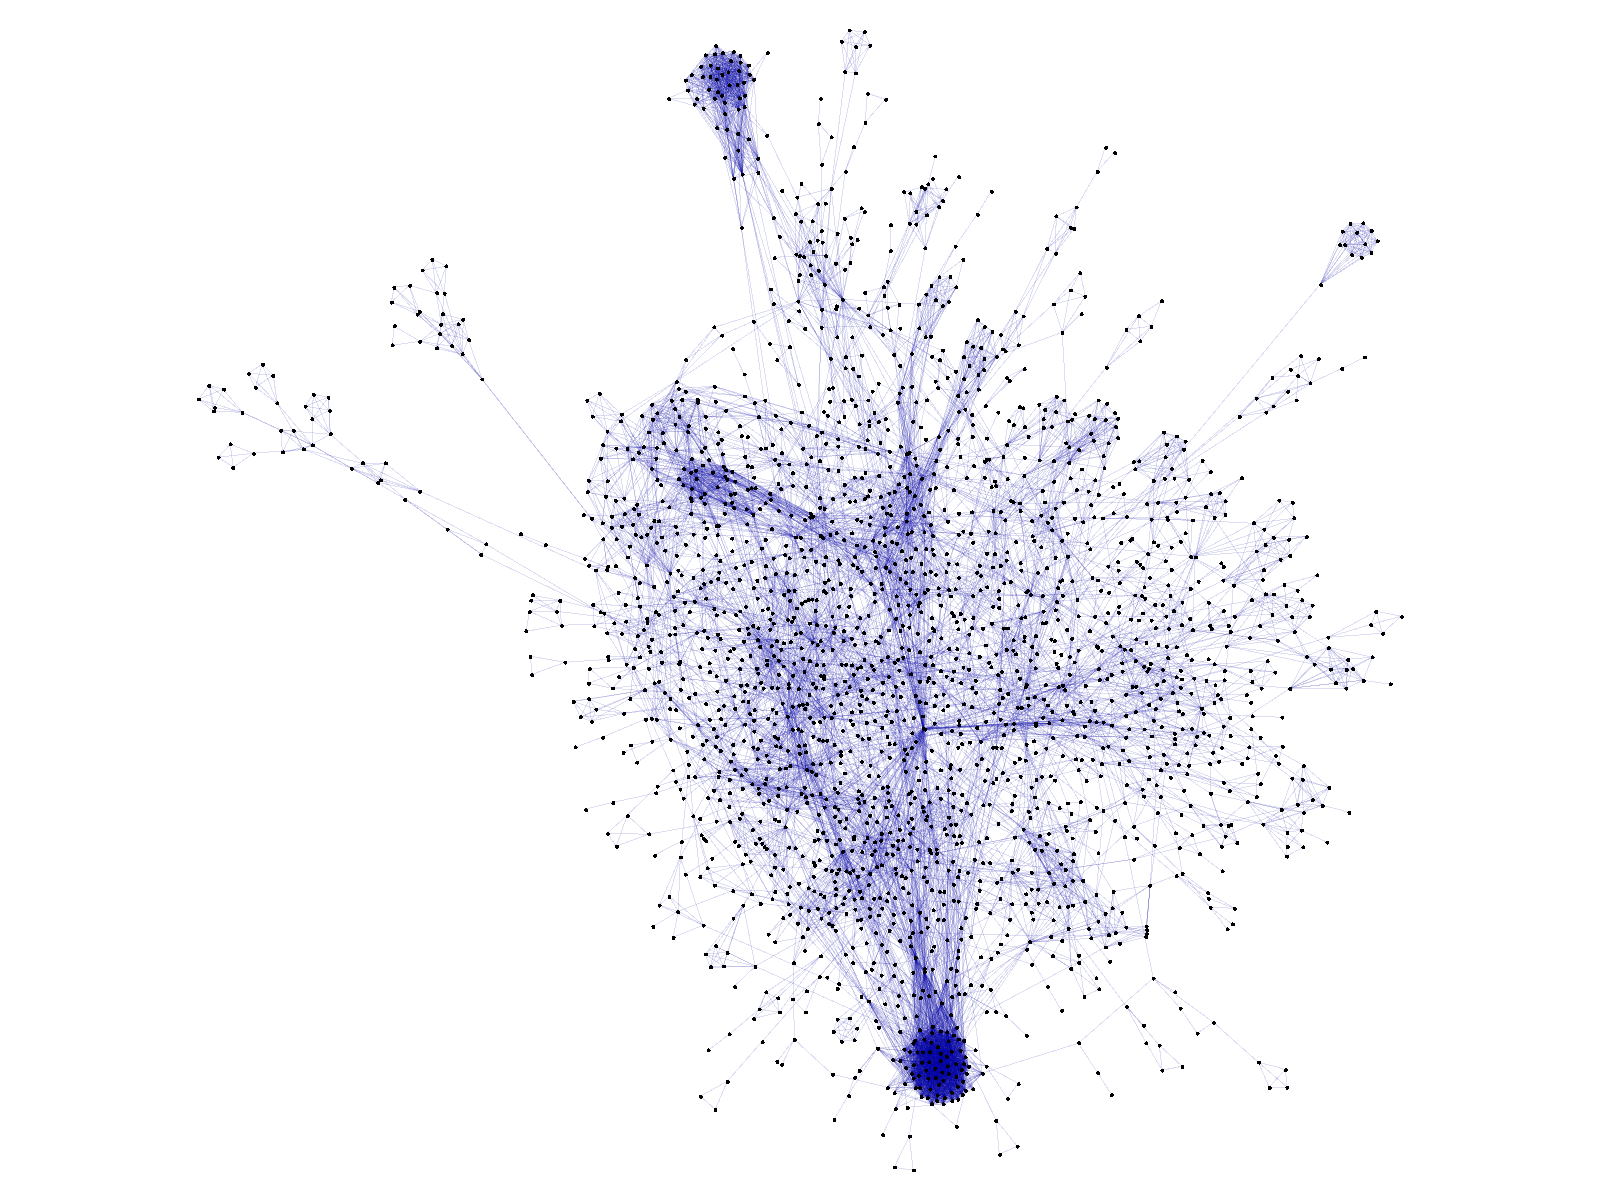
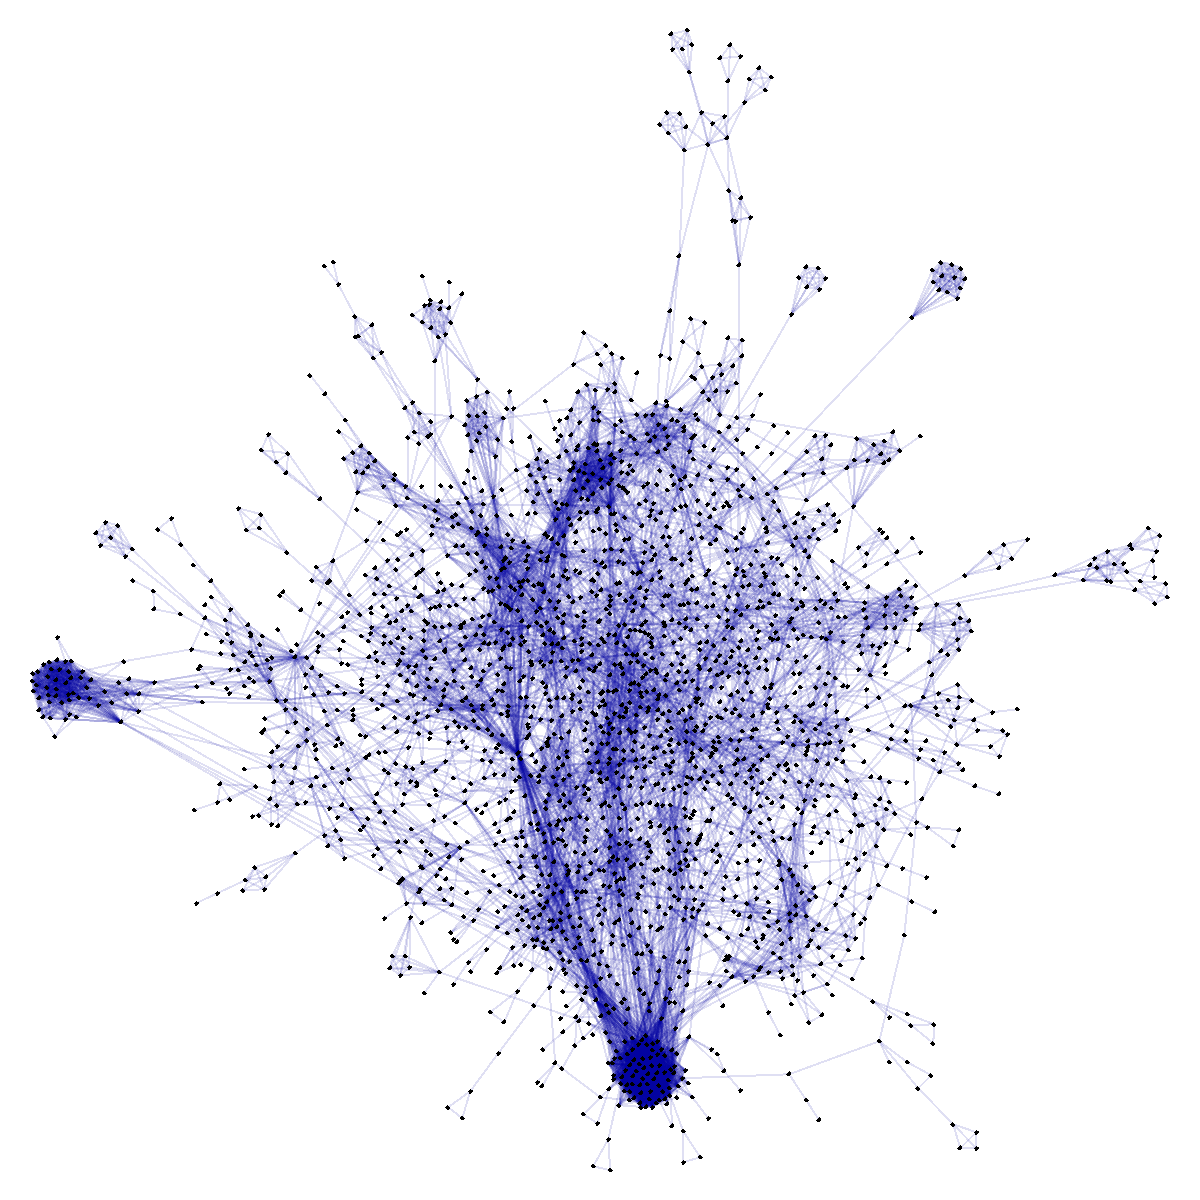
Work on Preparation - Math background

diff --git a/content/2preparation.tex b/content/2preparation.tex
@@ -33,23 +33,23 @@ It is assumed that such interactions are mutual, therefore the formed graph is u
 
 \input{figures/protein_network_schematic1.tex}
 
-\subsubsection*{Confidence scores}
+\subsection{Confidence scores}
 
 The weight of each edge represents a confidence score which may be a value, or a set of values, describing some sort of \textsl{likelihood} that the given interaction is true, given the available evidence.
 They do \textsl{not} indicate the strength or intensity of the interaction (which would be a different property, usually not observed in such protein networks).
 
-For example, in the STRING database of protein networks used in The Paper, the main interaction score is an approximated \textsl{confidence} based on evidence such as scientific experiments, genetic observations (gene fusions, gene cooccurence), statistical predictions, text mining of scientific articles, or existing knowledge (other available protein interaction databases)~\cite{Szklarczyk2019}.
+For example, in the STRING database of protein networks used in The Paper, the main interaction score is an approximated \textsl{confidence} based on evidence such as scientific experiments, genetic observations (gene fusions, gene co-occurrence), statistical predictions, text mining of scientific articles, or existing knowledge (other available protein interaction databases)~\cite{Szklarczyk2019}.
 The database then contains score values for each type of evidence, as well as a combined overall confidence score.
 The Paper, as well as my dissertation, use only the combined confidence score and do not focus on the biological details of each evidence type.
 
-\input{figures_gen/ecoli_giant_at_900}
+\input{figures_gen/ecoli_giant_at_900.tex}
 
-When researching protein interactions, researchers usually choose a \textbf{threshold} and then form a protein interaction network from the database considering only interactions (edges) whose confidence score is greater than the selected threshold, to only take into account interactions of sufficiently high quality.
+When researching protein interactions, in practice, researchers choose a \textbf{threshold} and then form a protein interaction network from the database considering only interactions (edges) whose confidence score is greater than the selected threshold, to only take into account interactions of sufficiently high quality.
 Researchers then use tools such as graph metrics to identify important nodes or components of graphs, calculate statistics, or derive other results.
 
 \autoref{fig:ecoli_giant_at_900} shows an example of a protein network taken from the STRING database\cite{Szklarczyk2019}, of proteins of the \textit{Escherichia coli} organism.
 Only edges with score of $0.9$ corresponding to the ``highest confidence'' level (on the scale from $0$ to $1$) were retained, and only the giant connected component of it is shown.
-That yields a graph of 4144 nodes and 12917 edges.
+That yields a graph with 2382 nodes and 12071 edges.
 
 \subsection{Metric robustness}
 
@@ -59,6 +59,8 @@ Hence, the point of studying metric robustness or \textsl{stability} is a way to
 
 It is clear that numerical values of node metrics will depend on such threshold, for example the degree and the clustering coefficient of each node will indeed monotonically decline with declining density of the network, which monotonically declines as we increase the confidence threshold.
 For this reason, the point of The Paper is to assess a robustness of graph metrics based on the \textbf{rankings} of nodes induced by each metric (where ranking is just a total preorder of the nodes based on the metric values).
+
+\subsubsection{Rank robustness}
 
 The Paper introduces three different measures assessing robustness of node metrics (all will be explained later):
 \begin{itemize}
@@ -73,39 +75,51 @@ The Paper studies robustness of 25 different \textsl{node} metrics only, i.e. gr
 
 \section{Mathematical background}
 
-In this chapter I review background material on graph theory and examining graph metric robustness, and fix terms I will use later to avoid ambiguity in further chapters.
+In this section I review background material on graph theory and examining graph metric robustness, and fix terms I will use later to avoid ambiguity in further chapters.
 
-In particular, this chapter will discuss mainly the following, in the theoretical framework:
+In particular, this section will focus introducing high-level concepts of:
 \begin{itemize}
-    \item collecting source datasets
-    \item generating distorted graphs
-    \item common graph metrics that can evaluated on graphs
-    \item ways to quantify robustness of metrics
+    \item relevant bits of graph theory
+    \item graph metrics
+    \item ranking
+    \item metric robustness
 \end{itemize}
 
 \subsection{Graphs}
 
 Graphs (or networks) from graph theory usually consist of \textit{components} (or nodes, vertices) and \textit{links} between them (edges).
-Some of the definitions in this subsection are based on the book \textsl{A first course in network theory}\cite{Estrada2017}.
+Some definitions in this subsection are based on the book \textsl{A first course in network theory}\cite{Estrada2017}.
 
 \begin{definition}[Graph]
     Let $V$ be a finite set of $n$ nodes (or vertices), and let $E \subseteq V \times V$ be a set of edges.\\
-    A \textbf{graph} $G$ is a pair $(V, E)$, also called a \textbf{network}.\\
+    A \textbf{graph} $G$ is a pair $(V, E)$.\\
     $V$ is the \textbf{node set} of $G$, and $E$ is the \textbf{edge set} of $G$.
 \end{definition}
 
-\noindent
-I also define the following graph
+Real-world data (or datasets) in the form of graphs are also called \textbf{networks}.
+Still, I may interchange the words \textsl{graph}, \textsl{network} and \textsl{dataset}, but generally:
+\begin{itemize}
+    \item \textsl{dataset} is data stored in its raw form, such as a file downloaded from the Internet
+    \item \textsl{network} is the real-world graph-like data conveyed by a dataset
+    \item \textsl{graph} is a hypothetical structure, also a mathematical interface or representation that algorithms work with
+\end{itemize}
 
 \begin{definition}[Graph properties]
     \begin{itemize}[leftmargin=*]
         \item $G$ is \textbf{reflexive} iff $\forall v \in V.\ (v, v) \in E$
         \item $G$ is \textbf{anti-reflexive} iff $\forall v \in V.\ (v, v) \notin E$
-        \item $G$ is \textbf{undirected} (or \textbf{symmetric}) iff $\forall v_1, v_2 \in V.\ (v_1, v_2) \in E \Leftrightarrow (v_2, v_1) \in E$
+        \item $G$ is \textbf{undirected} (or equally \textbf{symmetric}) iff $\forall v_1, v_2 \in V.\ (v_1, v_2) \in E \Leftrightarrow (v_2, v_1) \in E$
         \item $G$ is \textbf{directed} iff it is not undirected
-        \item $G$ is a \textbf{simple graph} iff it is anti-reflexive and undirected
+        \item $G$ is a \textbf{simple graph} iff it is undirected and anti-reflexive
     \end{itemize}
 \end{definition}
+
+Graphs I use in this project are all \textsl{simple graphs} (unless stated otherwise), i.e. edges are undirected (or bi-directional), and always span two different nodes.
+
+\input{figures_gen/simple_graph.tex}
+
+\autoref{fig:simple_graph} is an illustration of a connected simple graph with 110 nodes and 151 edges.
+I used graphs like this for testing purposes when developing \graffs.
 
 \begin{definition}[Relations on graphs]
     \begin{itemize}[leftmargin=*]
@@ -140,7 +154,17 @@ I also define the following graph
 
         Note that all components of a graph are disjoint, therefore each node belongs to exactly one component.
     \end{itemize}
+
+        \item A \textbf{giant component} of a graph is a single component that has more nodes than any other component of the graph.
+
+        Note that a giant component may not exist, if more components have maximum number of nodes.
 \end{definition}
+
+\input{figures_gen/disconnecting_graph.tex}
+
+Most of real-world networks (such as social networks, citation networks and even protein interaction networks) contain a single giant component, and some small isolated components.
+For example, in \autoref{fig:disconnecting_graph}, the red nodes form a giant component of the graph.
+
 
 \subsubsection{Networks}
 
@@ -264,3 +288,12 @@ KONECT - The koblenz network collection\cite{Kunegis2013}
 Possible algorithms to use: \url{https://jgrapht.org/javadoc/org/jgrapht/generate/package-summary.html}
 
 
+\section{Methods}
+
+In particular, this chapter will discuss mainly the following, in the theoretical framework:
+\begin{itemize}
+    \item collecting source datasets
+    \item generating distorted graphs
+    \item common graph metrics that can evaluated on graphs
+    \item ways to quantify robustness of metrics
+\end{itemize}

diff --git a/figures_gen/disconnecting_graph.tex b/figures_gen/disconnecting_graph.tex
@@ -1,0 +1,6 @@
+\begin{figure}
+\includegraphics[height=8cm]{disconnecting_graph.png}\includegraphics[height=8cm]{disconnecting_graph2.png}
+\caption{Illustrated is how thresholding a protein network results in one giant component (red) and multiple small disconnected components.
+The left is a certain subgraph of the \textit{ecoli} dataset (all edges with confidence $>0.4$), the right graph has only edges with confidence $>0.5$.}
+\label{fig:disconnecting_graph}
+\end{figure}

diff --git a/main.tex b/main.tex
@@ -51,8 +51,8 @@
 \clubpenalty1000%
 \widowpenalty1000%
 
-\renewcommand{\baselinestretch}{1.1}    % adjust line spacing to make
-                                        % more readable
+\renewcommand{\baselinestretch}{1.1}    % adjust line spacing to make more readable
+\setlist[itemize]{itemsep=0pt}
 
 % Better footnote handling
 \newcounter{footnoteInText}

diff --git a/figures_gen/simple_graph.tex b/figures_gen/simple_graph.tex
@@ -1,0 +1,5 @@
+\begin{figure}
+\includegraphics[height=6cm]{simple_graph.png}
+\caption{A small example of a \textsl{connected} \textsl{simple} graph (i.e. \textsl{undirected} and \textsl{anti-reflexive}).}
+\label{fig:simple_graph}
+\end{figure}
